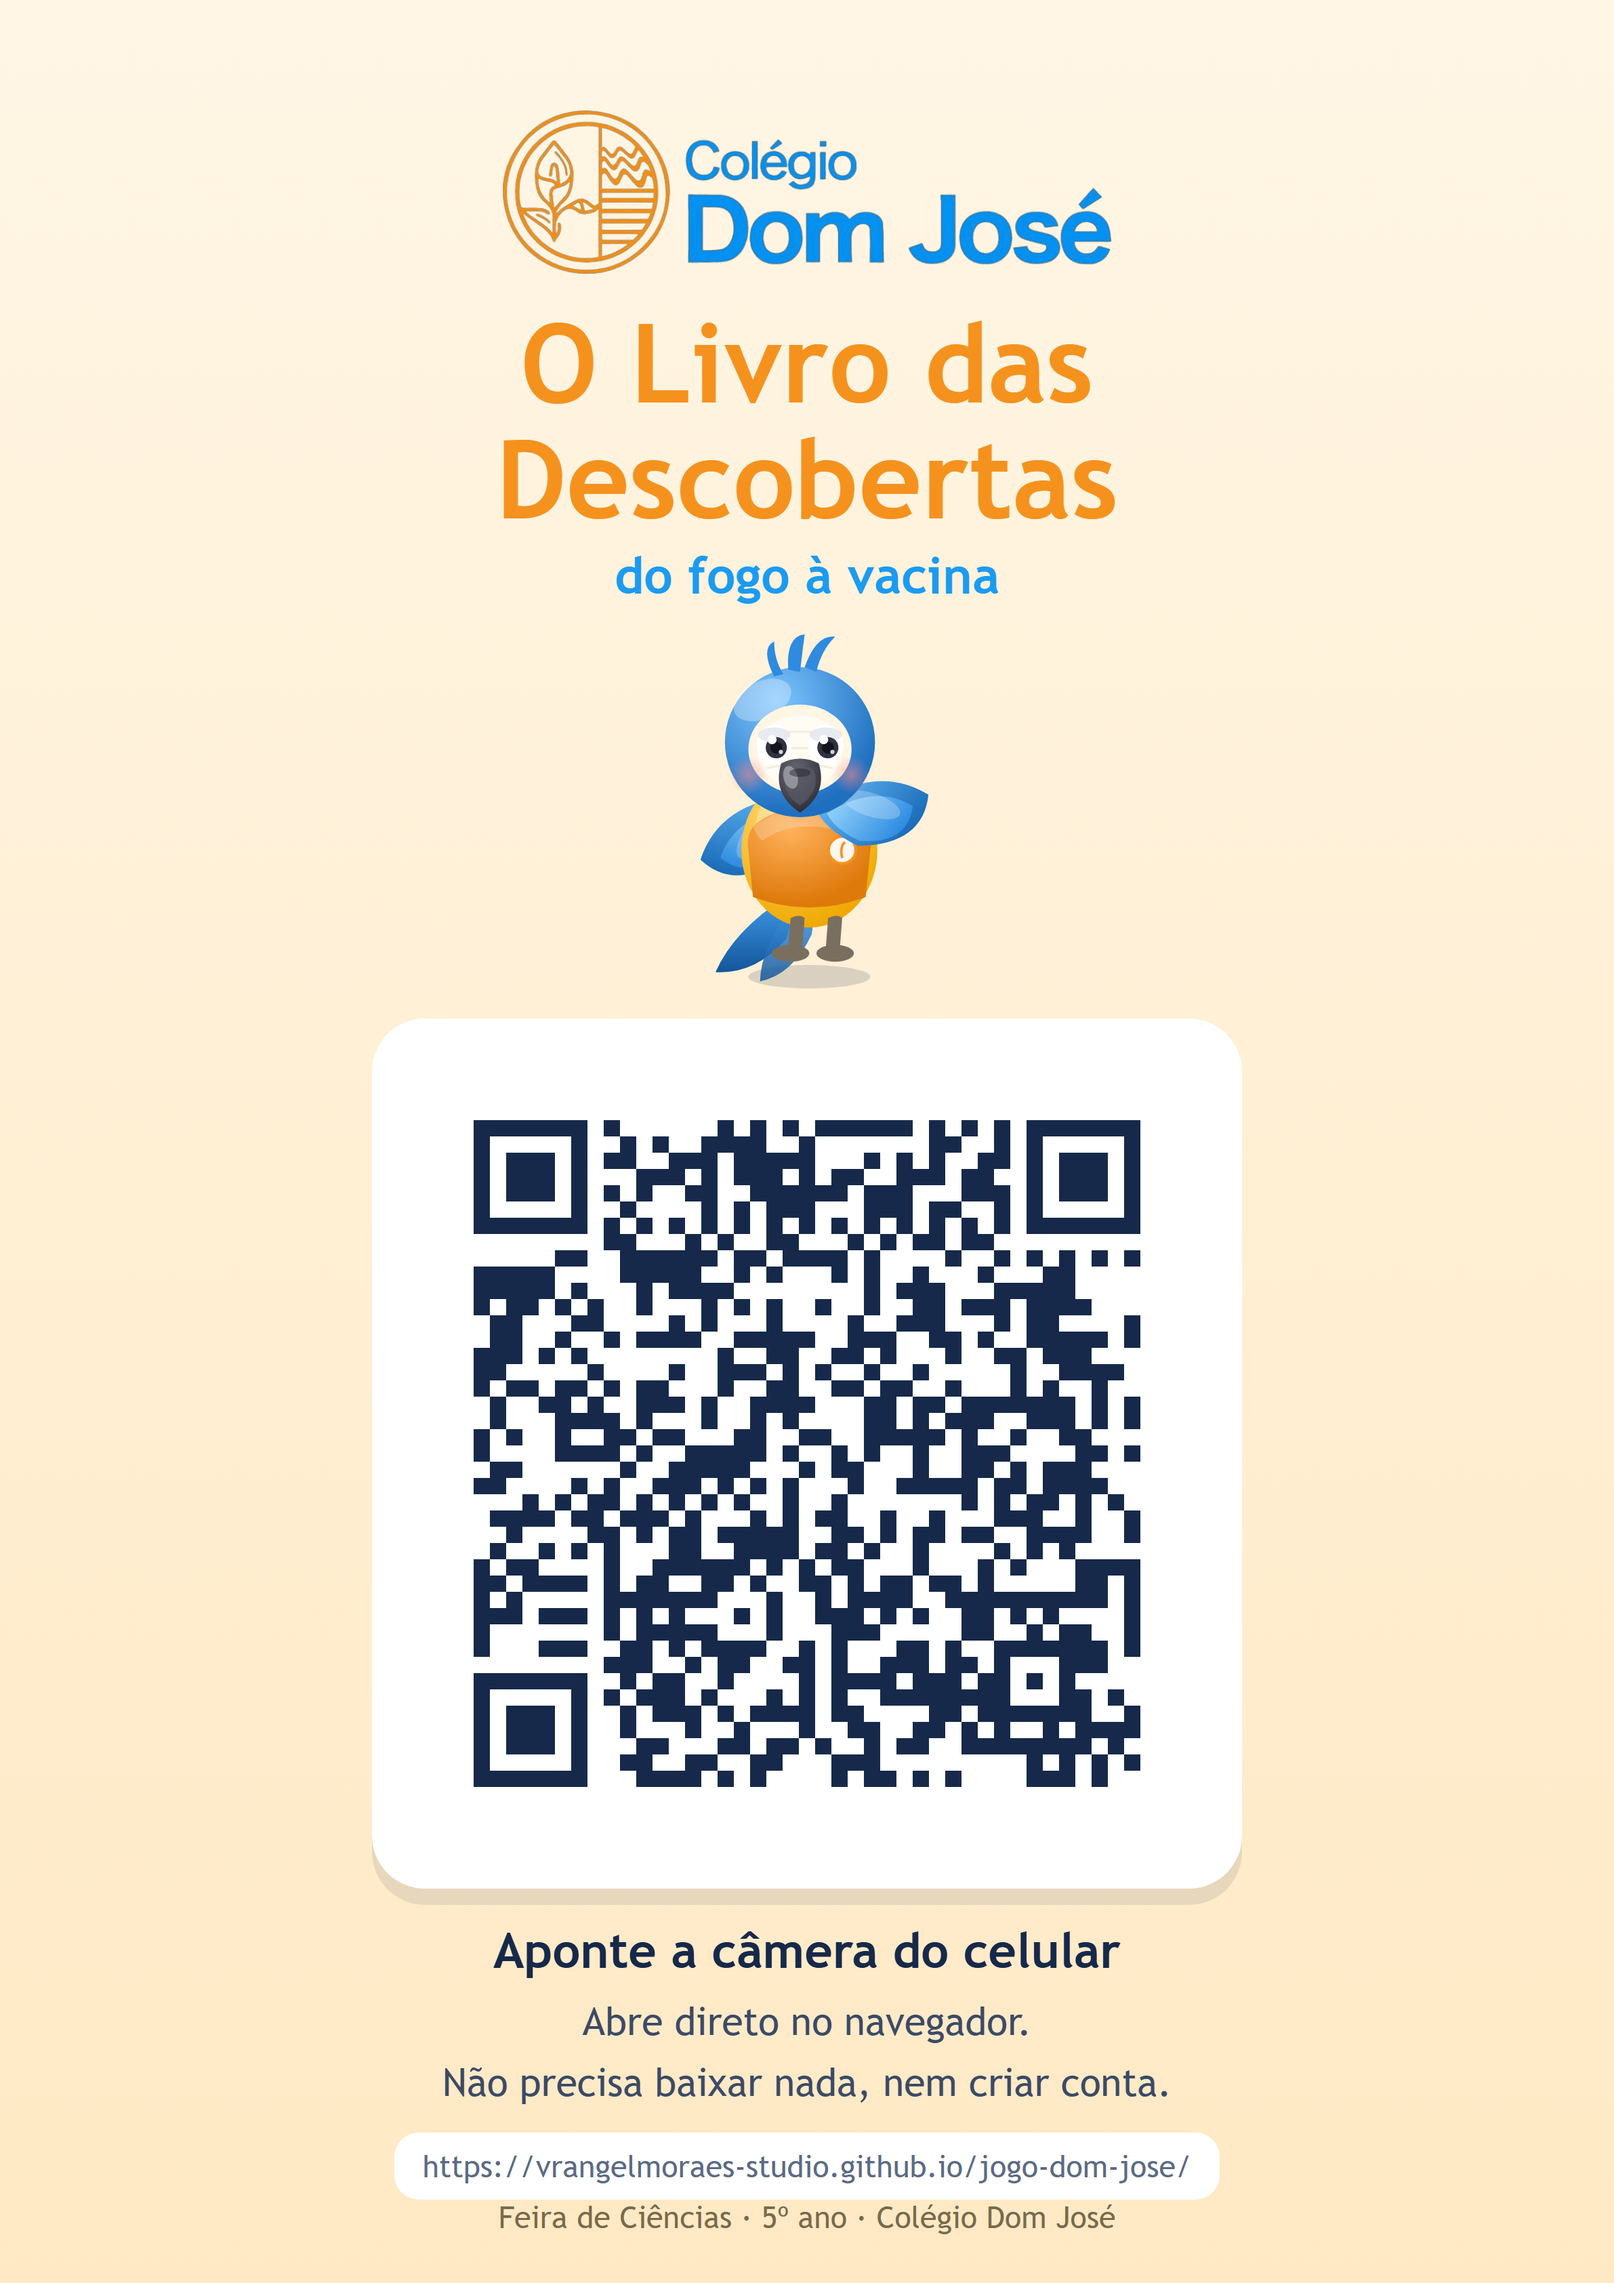
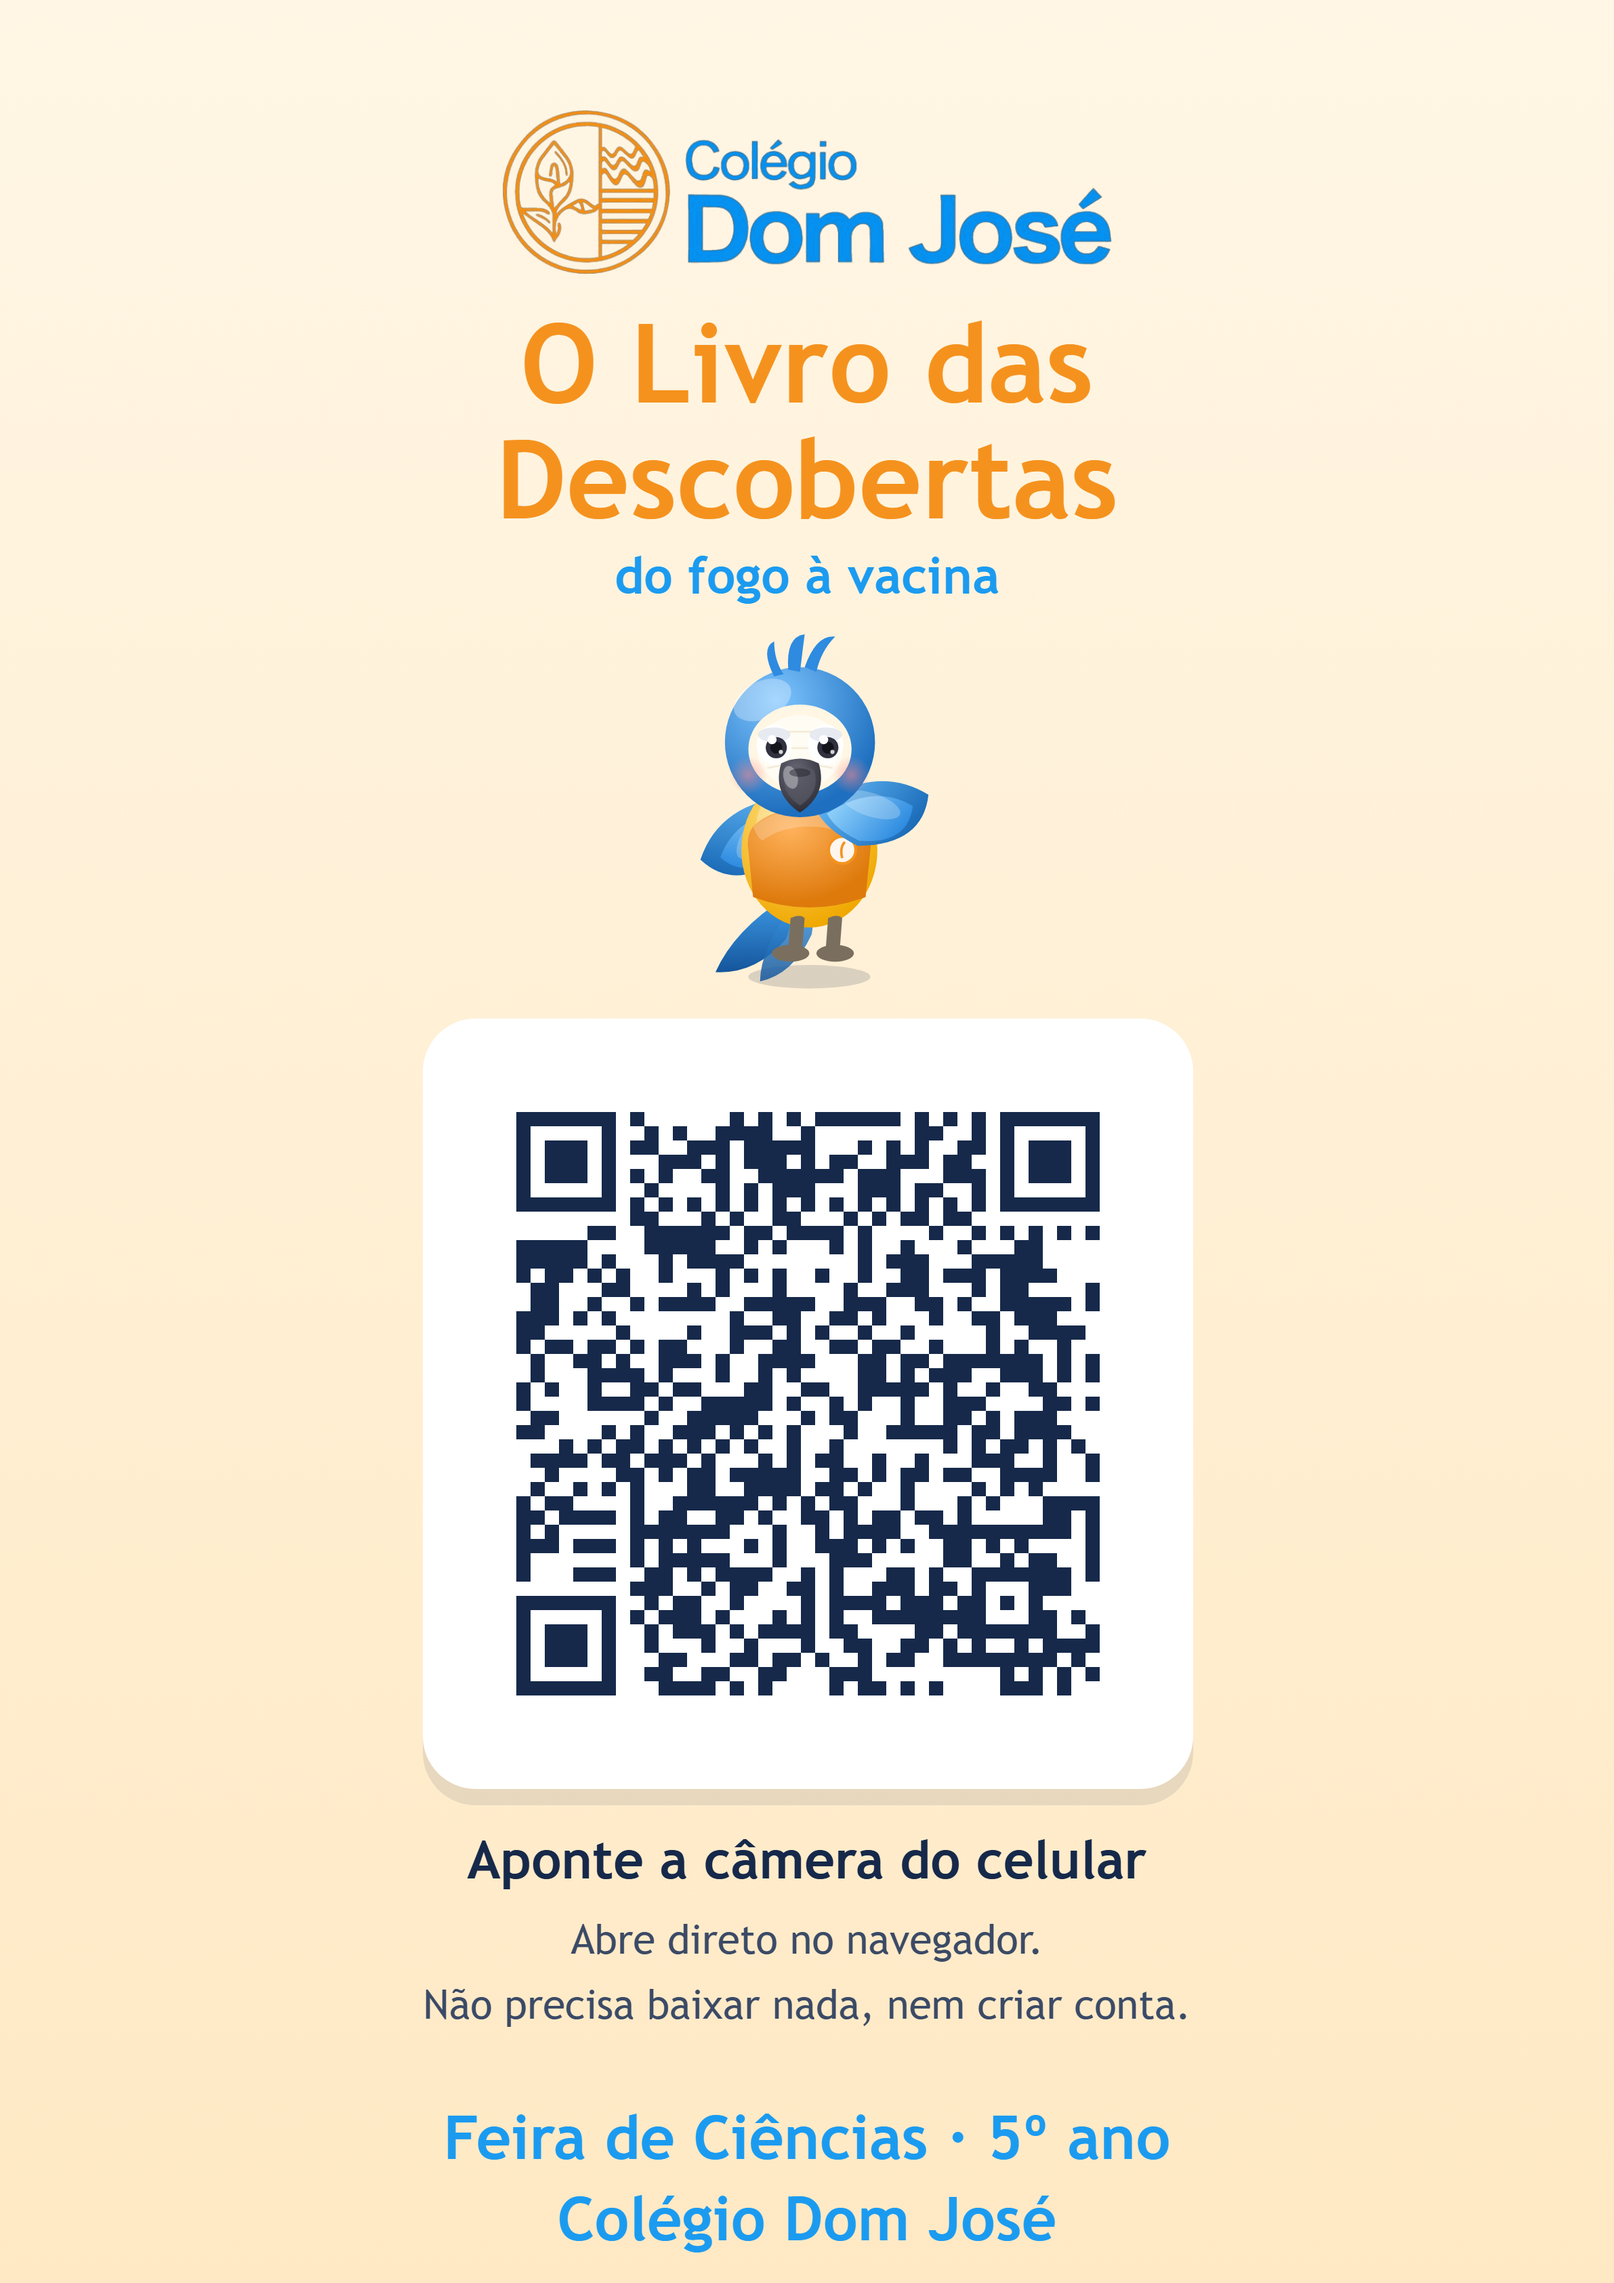
Cartaz: sai o endereço escrito, entra o rodapé em destaque
Sem a linha do endereço, o rodapé passa a ser o fecho do cartaz: dobra de
tamanho e ganha o azul da marca.

Isso estourou a folha em 39 px e cortava "Colégio Dom José". O QR desceu de
392 para 343 px (escala inteira, para o módulo continuar nítido) e a folha
voltou a fechar exata. O código segue legível até 12% do tamanho.

Changed region(s): [[0.2175, 0.4363, 0.7767, 0.9973]]

diff --git a/qr-code/cartaz.html b/qr-code/cartaz.html
@@ -24,14 +24,16 @@
     box-shadow: 0 8px 0 rgba(22,41,74,.10);
     line-height: 0; margin-bottom: 12px;
   }
-  .qr svg { width: 392px; height: 392px; display: block }
-  .como { font-size: 24px; margin: 4px 0 6px; font-weight: bold }
-  .passos { font-size: 19px; line-height: 1.6; color: #3B4A66; margin: 0 0 10px }
-  .url {
-    font-size: 15px; color: #5B6B85; word-break: break-all;
-    background: #fff; border-radius: 12px; padding: 8px 14px;
+  .qr svg { width: 343px; height: 343px; display: block }
+  .como { font-size: 26px; margin: 8px 0 8px; font-weight: bold }
+  .passos { font-size: 20px; line-height: 1.6; color: #3B4A66; margin: 0 0 14px }
+  /* Sem o endereço escrito, o rodapé passa a ser o fecho do cartaz:
+     cresce e ganha o azul da marca. */
+  .rodape {
+    margin-top: auto; padding-top: 16px;
+    font-size: 30px; font-weight: bold; line-height: 1.35;
+    color: #1B9BF0;
   }
-  .rodape { margin-top: auto; font-size: 15px; color: #7A6A4A }
 </style></head>
 <body><div class="folha">
[1 lines of base64/hex data omitted]
@@ -39,7 +41,7 @@
   <div class="sub">do fogo à vacina</div>
   <div id="zez" class="zez"></div>
 
-  <div class="qr"><svg viewBox="0 0 392 392" xmlns="http://www.w3.org/2000/svg" width="392" height="392" class="segno"><g transform="scale(8)"><path fill="#fff" d="M0 0h49v49h-49z"/><path class="qrline" stroke="#16294a" d="M4 4.5h7m1 0h1m6 0h1m1 0h1m1 0h1m1 0h6m1 0h1m1 0h1m1 0h1m1 0h7m-41 1h1m5 0h1m2 0h1m1 0h1m2 0h4m2 0h1m7 0h2m2 0h1m1 0h1m5 0h1m-41 1h1m1 0h3m1 0h1m1 0h2m2 0h3m1 0h5m3 0h1m1 0h1m1 0h1m2 0h2m1 0h1m1 0h3m1 0h1m-41 1h1m1 0h3m1 0h1m3 0h3m1 0h1m1 0h3m1 0h1m1 0h2m2 0h3m1 0h2m2 0h1m1 0h3m1 0h1m-41 1h1m1 0h3m1 0h1m1 0h1m1 0h1m2 0h2m2 0h6m1 0h3m3 0h3m1 0h1m1 0h3m1 0h1m-41 1h1m5 0h1m2 0h1m4 0h1m1 0h1m1 0h3m3 0h3m1 0h2m2 0h1m1 0h1m5 0h1m-41 1h7m1 0h1m1 0h1m1 0h1m1 0h1m1 0h1m1 0h1m1 0h1m1 0h1m1 0h1m1 0h1m1 0h1m1 0h1m1 0h1m1 0h7m-33 1h2m3 0h1m1 0h1m2 0h2m3 0h1m1 0h1m1 0h2m1 0h2m-27 1h2m2 0h6m1 0h2m1 0h4m1 0h1m4 0h1m2 0h1m1 0h1m1 0h1m1 0h1m1 0h1m-41 1h5m4 0h5m2 0h1m1 0h1m3 0h1m1 0h1m2 0h1m3 0h1m3 0h2m-37 1h5m1 0h1m3 0h1m1 0h4m8 0h1m1 0h3m3 0h5m-37 1h1m1 0h2m1 0h1m1 0h1m2 0h1m3 0h1m1 0h1m1 0h1m2 0h1m2 0h1m2 0h2m1 0h3m1 0h4m-37 1h2m3 0h2m4 0h1m1 0h1m3 0h1m4 0h1m2 0h3m3 0h1m1 0h2m4 0h1m-40 1h2m2 0h1m2 0h1m1 0h4m2 0h5m2 0h3m2 0h2m1 0h1m2 0h5m1 0h1m-41 1h3m1 0h1m1 0h1m8 0h1m2 0h2m2 0h2m1 0h1m3 0h1m2 0h2m1 0h3m-38 1h2m5 0h1m4 0h1m2 0h3m1 0h1m1 0h1m2 0h1m2 0h1m5 0h1m2 0h4m-40 1h1m1 0h2m1 0h2m1 0h1m1 0h2m3 0h1m2 0h2m2 0h2m1 0h2m2 0h1m3 0h1m1 0h1m2 0h1m-38 1h1m2 0h2m1 0h1m2 0h3m1 0h1m2 0h4m3 0h2m1 0h2m1 0h7m1 0h1m1 0h1m-40 1h1m3 0h4m1 0h1m3 0h1m2 0h1m1 0h1m4 0h2m1 0h1m1 0h3m2 0h3m1 0h1m1 0h1m-41 1h1m1 0h1m2 0h1m2 0h2m1 0h2m3 0h2m2 0h2m2 0h5m1 0h1m2 0h1m2 0h2m-38 1h1m4 0h4m1 0h1m2 0h5m1 0h1m2 0h1m1 0h1m2 0h1m2 0h3m4 0h2m1 0h1m-40 1h2m6 0h1m2 0h5m3 0h1m1 0h2m3 0h1m2 0h2m1 0h1m1 0h3m-38 1h2m4 0h1m1 0h1m2 0h3m1 0h1m1 0h1m1 0h1m3 0h1m2 0h5m1 0h2m1 0h4m-36 1h1m1 0h1m1 0h2m1 0h1m1 0h1m1 0h1m1 0h1m2 0h1m2 0h1m7 0h1m1 0h1m1 0h2m1 0h1m1 0h1m-39 1h4m1 0h2m1 0h3m1 0h1m3 0h1m1 0h1m1 0h2m2 0h1m2 0h1m3 0h3m2 0h1m2 0h1m-39 1h1m4 0h2m1 0h1m1 0h2m1 0h5m2 0h2m1 0h1m1 0h2m1 0h2m2 0h4m2 0h1m-40 1h1m2 0h1m1 0h1m1 0h1m3 0h2m2 0h4m1 0h2m1 0h1m2 0h1m4 0h1m1 0h1m1 0h1m-37 1h1m1 0h2m4 0h1m2 0h6m1 0h1m1 0h1m1 0h2m3 0h1m3 0h1m1 0h1m3 0h4m-41 1h2m1 0h4m1 0h1m1 0h2m2 0h2m1 0h1m2 0h2m1 0h1m1 0h2m1 0h2m1 0h1m5 0h2m1 0h1m-41 1h1m1 0h1m5 0h7m3 0h1m2 0h1m1 0h4m2 0h10m1 0h1m-41 1h3m1 0h3m1 0h1m1 0h1m1 0h1m3 0h1m1 0h1m2 0h3m1 0h1m1 0h1m2 0h2m1 0h1m1 0h1m4 0h1m-41 1h1m7 0h1m1 0h5m3 0h1m3 0h3m5 0h2m2 0h1m1 0h2m2 0h1m-41 1h1m3 0h3m2 0h2m1 0h1m1 0h4m2 0h1m1 0h1m3 0h2m1 0h1m2 0h7m1 0h1m-33 1h3m2 0h1m1 0h2m2 0h2m1 0h1m2 0h3m1 0h2m1 0h1m3 0h3m-39 1h7m2 0h1m1 0h2m2 0h1m4 0h1m1 0h4m1 0h3m1 0h2m1 0h1m1 0h1m-37 1h1m5 0h1m1 0h1m1 0h3m1 0h1m3 0h1m1 0h1m1 0h1m2 0h8m3 0h2m1 0h1m-40 1h1m1 0h3m1 0h1m2 0h1m1 0h3m1 0h1m1 0h4m1 0h2m4 0h2m1 0h7m2 0h1m-41 1h1m1 0h3m1 0h1m2 0h1m3 0h1m2 0h1m3 0h1m2 0h2m2 0h2m1 0h1m1 0h1m2 0h1m1 0h4m-41 1h1m1 0h3m1 0h1m3 0h2m3 0h2m1 0h2m1 0h1m2 0h1m1 0h2m2 0h8m1 0h1m-40 1h1m5 0h1m2 0h2m2 0h2m2 0h2m3 0h3m9 0h1m1 0h1m1 0h1m1 0h1m-41 1h7m3 0h4m1 0h1m1 0h1m4 0h1m1 0h2m1 0h1m1 0h1m4 0h3m1 0h1"/></g></svg>
+  <div class="qr"><svg viewBox="0 0 343 343" xmlns="http://www.w3.org/2000/svg" width="343" height="343" class="segno"><g transform="scale(7)"><path fill="#fff" d="M0 0h49v49h-49z"/><path class="qrline" stroke="#16294a" d="M4 4.5h7m1 0h1m6 0h1m1 0h1m1 0h1m1 0h6m1 0h1m1 0h1m1 0h1m1 0h7m-41 1h1m5 0h1m2 0h1m1 0h1m2 0h4m2 0h1m7 0h2m2 0h1m1 0h1m5 0h1m-41 1h1m1 0h3m1 0h1m1 0h2m2 0h3m1 0h5m3 0h1m1 0h1m1 0h1m2 0h2m1 0h1m1 0h3m1 0h1m-41 1h1m1 0h3m1 0h1m3 0h3m1 0h1m1 0h3m1 0h1m1 0h2m2 0h3m1 0h2m2 0h1m1 0h3m1 0h1m-41 1h1m1 0h3m1 0h1m1 0h1m1 0h1m2 0h2m2 0h6m1 0h3m3 0h3m1 0h1m1 0h3m1 0h1m-41 1h1m5 0h1m2 0h1m4 0h1m1 0h1m1 0h3m3 0h3m1 0h2m2 0h1m1 0h1m5 0h1m-41 1h7m1 0h1m1 0h1m1 0h1m1 0h1m1 0h1m1 0h1m1 0h1m1 0h1m1 0h1m1 0h1m1 0h1m1 0h1m1 0h1m1 0h7m-33 1h2m3 0h1m1 0h1m2 0h2m3 0h1m1 0h1m1 0h2m1 0h2m-27 1h2m2 0h6m1 0h2m1 0h4m1 0h1m4 0h1m2 0h1m1 0h1m1 0h1m1 0h1m1 0h1m-41 1h5m4 0h5m2 0h1m1 0h1m3 0h1m1 0h1m2 0h1m3 0h1m3 0h2m-37 1h5m1 0h1m3 0h1m1 0h4m8 0h1m1 0h3m3 0h5m-37 1h1m1 0h2m1 0h1m1 0h1m2 0h1m3 0h1m1 0h1m1 0h1m2 0h1m2 0h1m2 0h2m1 0h3m1 0h4m-37 1h2m3 0h2m4 0h1m1 0h1m3 0h1m4 0h1m2 0h3m3 0h1m1 0h2m4 0h1m-40 1h2m2 0h1m2 0h1m1 0h4m2 0h5m2 0h3m2 0h2m1 0h1m2 0h5m1 0h1m-41 1h3m1 0h1m1 0h1m8 0h1m2 0h2m2 0h2m1 0h1m3 0h1m2 0h2m1 0h3m-38 1h2m5 0h1m4 0h1m2 0h3m1 0h1m1 0h1m2 0h1m2 0h1m5 0h1m2 0h4m-40 1h1m1 0h2m1 0h2m1 0h1m1 0h2m3 0h1m2 0h2m2 0h2m1 0h2m2 0h1m3 0h1m1 0h1m2 0h1m-38 1h1m2 0h2m1 0h1m2 0h3m1 0h1m2 0h4m3 0h2m1 0h2m1 0h7m1 0h1m1 0h1m-40 1h1m3 0h4m1 0h1m3 0h1m2 0h1m1 0h1m4 0h2m1 0h1m1 0h3m2 0h3m1 0h1m1 0h1m-41 1h1m1 0h1m2 0h1m2 0h2m1 0h2m3 0h2m2 0h2m2 0h5m1 0h1m2 0h1m2 0h2m-38 1h1m4 0h4m1 0h1m2 0h5m1 0h1m2 0h1m1 0h1m2 0h1m2 0h3m4 0h2m1 0h1m-40 1h2m6 0h1m2 0h5m3 0h1m1 0h2m3 0h1m2 0h2m1 0h1m1 0h3m-38 1h2m4 0h1m1 0h1m2 0h3m1 0h1m1 0h1m1 0h1m3 0h1m2 0h5m1 0h2m1 0h4m-36 1h1m1 0h1m1 0h2m1 0h1m1 0h1m1 0h1m1 0h1m2 0h1m2 0h1m7 0h1m1 0h1m1 0h2m1 0h1m1 0h1m-39 1h4m1 0h2m1 0h3m1 0h1m3 0h1m1 0h1m1 0h2m2 0h1m2 0h1m3 0h3m2 0h1m2 0h1m-39 1h1m4 0h2m1 0h1m1 0h2m1 0h5m2 0h2m1 0h1m1 0h2m1 0h2m2 0h4m2 0h1m-40 1h1m2 0h1m1 0h1m1 0h1m3 0h2m2 0h4m1 0h2m1 0h1m2 0h1m4 0h1m1 0h1m1 0h1m-37 1h1m1 0h2m4 0h1m2 0h6m1 0h1m1 0h1m1 0h2m3 0h1m3 0h1m1 0h1m3 0h4m-41 1h2m1 0h4m1 0h1m1 0h2m2 0h2m1 0h1m2 0h2m1 0h1m1 0h2m1 0h2m1 0h1m5 0h2m1 0h1m-41 1h1m1 0h1m5 0h7m3 0h1m2 0h1m1 0h4m2 0h10m1 0h1m-41 1h3m1 0h3m1 0h1m1 0h1m1 0h1m3 0h1m1 0h1m2 0h3m1 0h1m1 0h1m2 0h2m1 0h1m1 0h1m4 0h1m-41 1h1m7 0h1m1 0h5m3 0h1m3 0h3m5 0h2m2 0h1m1 0h2m2 0h1m-41 1h1m3 0h3m2 0h2m1 0h1m1 0h4m2 0h1m1 0h1m3 0h2m1 0h1m2 0h7m1 0h1m-33 1h3m2 0h1m1 0h2m2 0h2m1 0h1m2 0h3m1 0h2m1 0h1m3 0h3m-39 1h7m2 0h1m1 0h2m2 0h1m4 0h1m1 0h4m1 0h3m1 0h2m1 0h1m1 0h1m-37 1h1m5 0h1m1 0h1m1 0h3m1 0h1m3 0h1m1 0h1m1 0h1m2 0h8m3 0h2m1 0h1m-40 1h1m1 0h3m1 0h1m2 0h1m1 0h3m1 0h1m1 0h4m1 0h2m4 0h2m1 0h7m2 0h1m-41 1h1m1 0h3m1 0h1m2 0h1m3 0h1m2 0h1m3 0h1m2 0h2m2 0h2m1 0h1m1 0h1m2 0h1m1 0h4m-41 1h1m1 0h3m1 0h1m3 0h2m3 0h2m1 0h2m1 0h1m2 0h1m1 0h2m2 0h8m1 0h1m-40 1h1m5 0h1m2 0h2m2 0h2m2 0h2m3 0h3m9 0h1m1 0h1m1 0h1m1 0h1m-41 1h7m3 0h4m1 0h1m1 0h1m4 0h1m1 0h2m1 0h1m1 0h1m4 0h3m1 0h1"/></g></svg>
 </div>
 
   <div class="como">Aponte a câmera do celular</div>
@@ -47,9 +49,7 @@
     Abre direto no navegador.<br>
     Não precisa baixar nada, nem criar conta.
   </p>
-  <div class="url">https://vrangelmoraes-studio.github.io/jogo-dom-jose/</div>
-
-  <div class="rodape">Feira de Ciências · 5º ano · Colégio Dom José</div>
+  <div class="rodape">Feira de Ciências · 5º ano<br>Colégio Dom José</div>
 </div>
 <script src="../art.js"></script>
 <script>

diff --git a/gerar_qrcode.py b/gerar_qrcode.py
@@ -58,7 +58,10 @@ def main():
 
     # No cartaz o QR sai no tamanho natural (escala inteira), sem o CSS
     # esticar nada: módulo com número redondo de pixels é módulo nítido.
-    qr_svg, lado = svg_com_viewbox(8)
+    # escala 7 = 343 px no cartaz (uns 9 cm impressos), que e o tamanho que
+    # cabe na folha com o rodape maior sem cortar nada. Escala INTEIRA de
+    # proposito: modulo com numero redondo de pixels e modulo nitido.
+    qr_svg, lado = svg_com_viewbox(7)
 
     # A marca REAL do colégio vai embutida na página, em base64. Assim o
     # cartaz.html é um arquivo só: dá para mandar por e-mail, abrir em
@@ -107,13 +110,15 @@ CARTAZ = r'''<!DOCTYPE html>
     line-height: 0; margin-bottom: 12px;
   }
   .qr svg { width: {LADO}px; height: {LADO}px; display: block }
-  .como { font-size: 24px; margin: 4px 0 6px; font-weight: bold }
-  .passos { font-size: 19px; line-height: 1.6; color: #3B4A66; margin: 0 0 10px }
-  .url {
-    font-size: 15px; color: #5B6B85; word-break: break-all;
-    background: #fff; border-radius: 12px; padding: 8px 14px;
+  .como { font-size: 26px; margin: 8px 0 8px; font-weight: bold }
+  .passos { font-size: 20px; line-height: 1.6; color: #3B4A66; margin: 0 0 14px }
+  /* Sem o endereço escrito, o rodapé passa a ser o fecho do cartaz:
+     cresce e ganha o azul da marca. */
+  .rodape {
+    margin-top: auto; padding-top: 16px;
+    font-size: 30px; font-weight: bold; line-height: 1.35;
+    color: #1B9BF0;
   }
-  .rodape { margin-top: auto; font-size: 15px; color: #7A6A4A }
 </style></head>
 <body><div class="folha">
   <img class="logo" src="{LOGO}" alt="Colégio Dom José">
@@ -128,9 +133,7 @@ CARTAZ = r'''<!DOCTYPE html>
     Abre direto no navegador.<br>
     Não precisa baixar nada, nem criar conta.
   </p>
-  <div class="url">{URL}</div>
-
-  <div class="rodape">Feira de Ciências · 5º ano · Colégio Dom José</div>
+  <div class="rodape">Feira de Ciências · 5º ano<br>Colégio Dom José</div>
 </div>
 <script src="../art.js"></script>
 <script>
